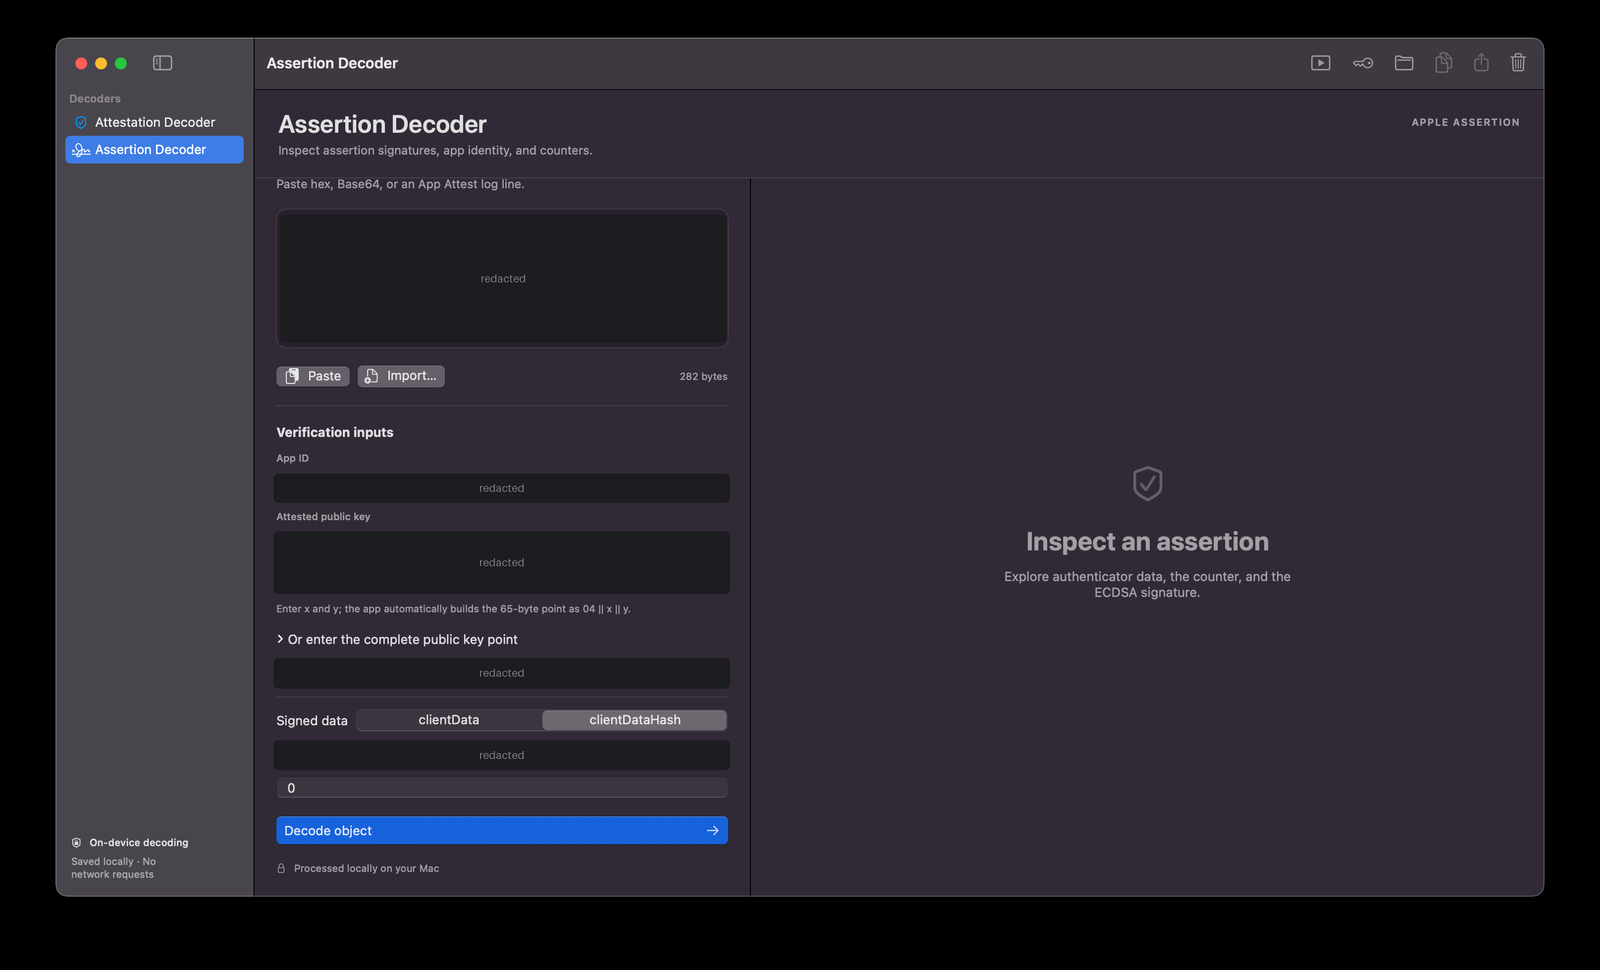
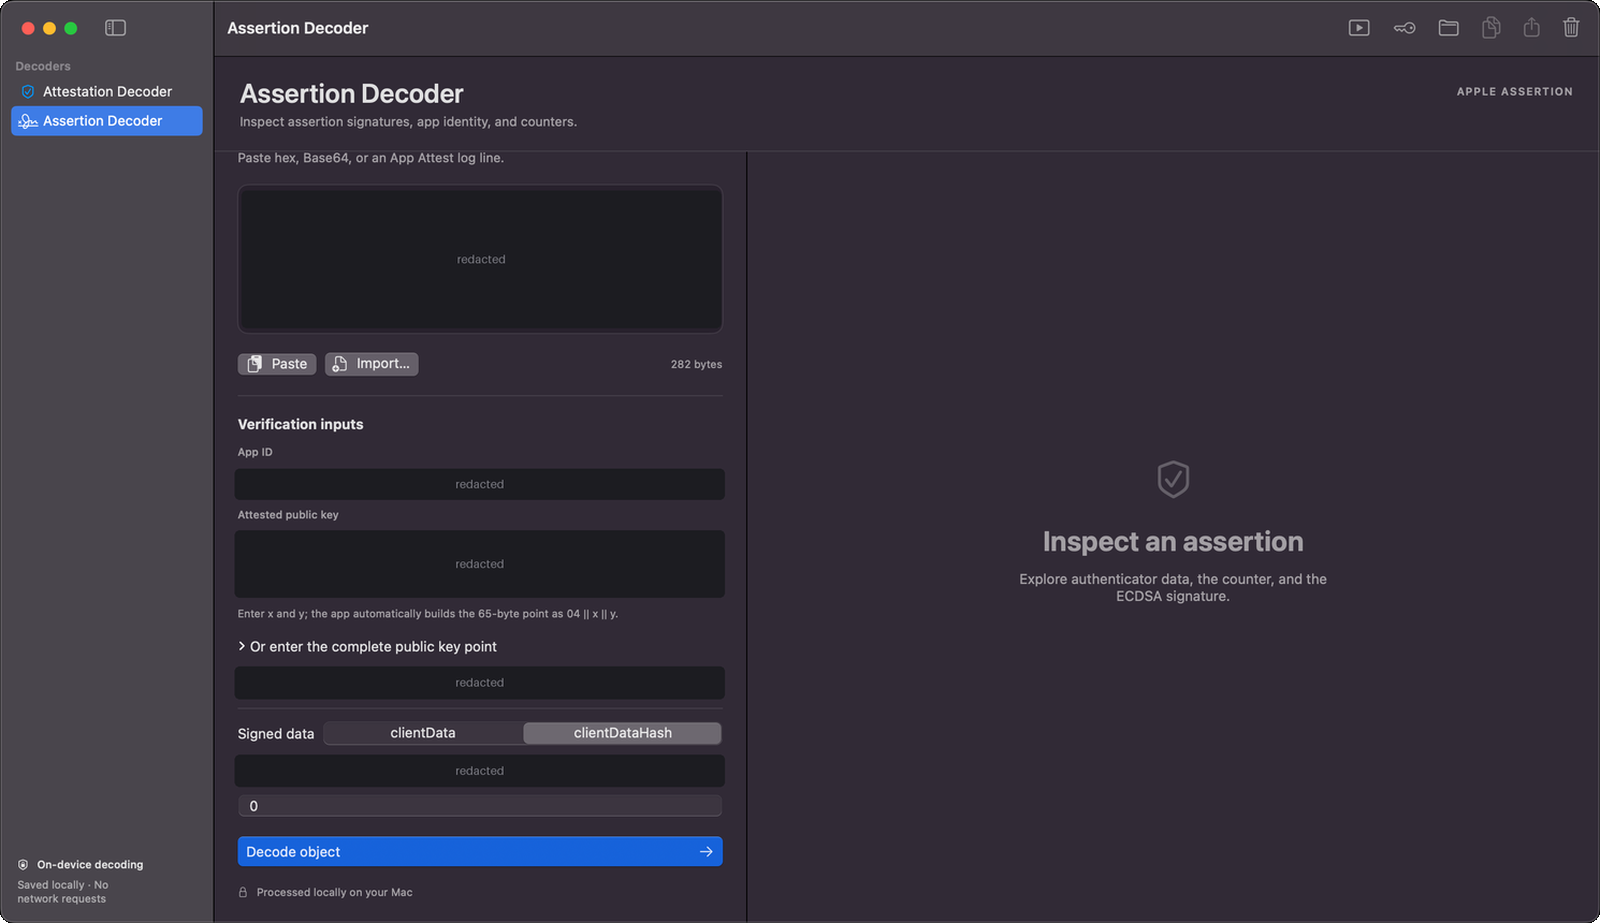
Show README screenshots full width and crop black borders
Claude-Session: https://claude.ai/code/session_0177vtKSv8DPmNmAUBa2Vseh

diff --git a/README.md b/README.md
@@ -16,15 +16,31 @@ Values from the device and app are redacted in these screenshots.
 
 ### Attestation Decoder
 
-| Input | Decoded report | Nonce and receipt |
-| --- | --- | --- |
-| ![Attestation input](.github/screenshots/01-attestation-input.png) | ![Attestation report with authData and certificate checks](.github/screenshots/02-attestation-report.png) | ![Nonce check and decoded receipt fields](.github/screenshots/03-attestation-receipt.png) |
+**Input**
+
+![Attestation input](.github/screenshots/01-attestation-input.png)
+
+**Decoded report**
+
+![Attestation report with authData and certificate checks](.github/screenshots/02-attestation-report.png)
+
+**Nonce and receipt**
+
+![Nonce check and decoded receipt fields](.github/screenshots/03-attestation-receipt.png)
 
 ### Assertion Decoder
 
-| Input | Decoded report | Signature verification |
-| --- | --- | --- |
-| ![Assertion input with public key and clientDataHash](.github/screenshots/04-assertion-input.png) | ![Assertion report with App ID and counter checks](.github/screenshots/05-assertion-report.png) | ![Signature verification with VALID result](.github/screenshots/06-assertion-verification.png) |
+**Input**
+
+![Assertion input with public key and clientDataHash](.github/screenshots/04-assertion-input.png)
+
+**Decoded report**
+
+![Assertion report with App ID and counter checks](.github/screenshots/05-assertion-report.png)
+
+**Signature verification**
+
+![Signature verification with VALID result](.github/screenshots/06-assertion-verification.png)
 
 ## App Attest guide
 
